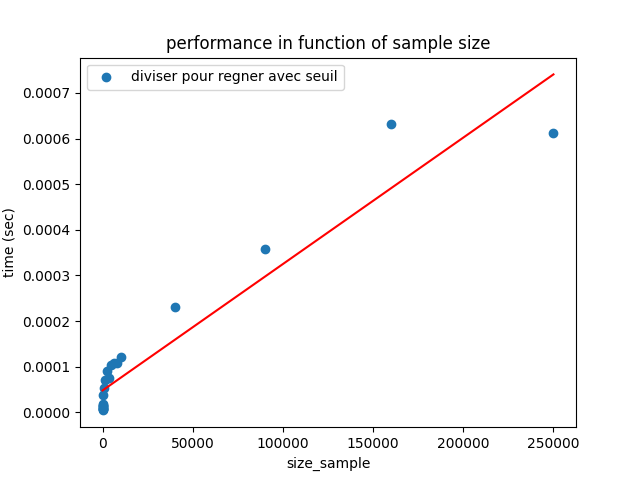
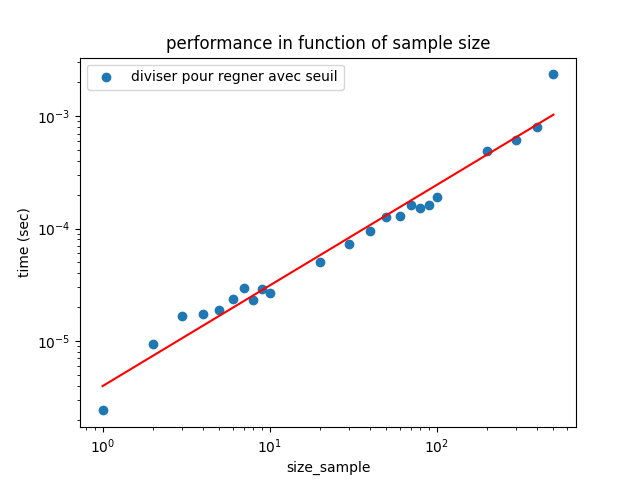
aa

diff --git a/TP1_H22/plot.py b/TP1_H22/plot.py
@@ -96,7 +96,7 @@ def plot_puissance():
         list_size_sample, 10)
         
     plt.figure()
-    plt.scatter(list_size_sample, list_time_naive, label="diviser pour regner avec seuil") 
+    plt.scatter(list_size_sample, list_time_threshold, label="diviser pour regner avec seuil") 
     plt.yscale("log")
     plt.xscale("log")
 
@@ -160,4 +160,4 @@ def plot_constante():
     plt.show()
 
 if __name__ == "__main__":
-    plot_constante()
+    plot_puissance()
